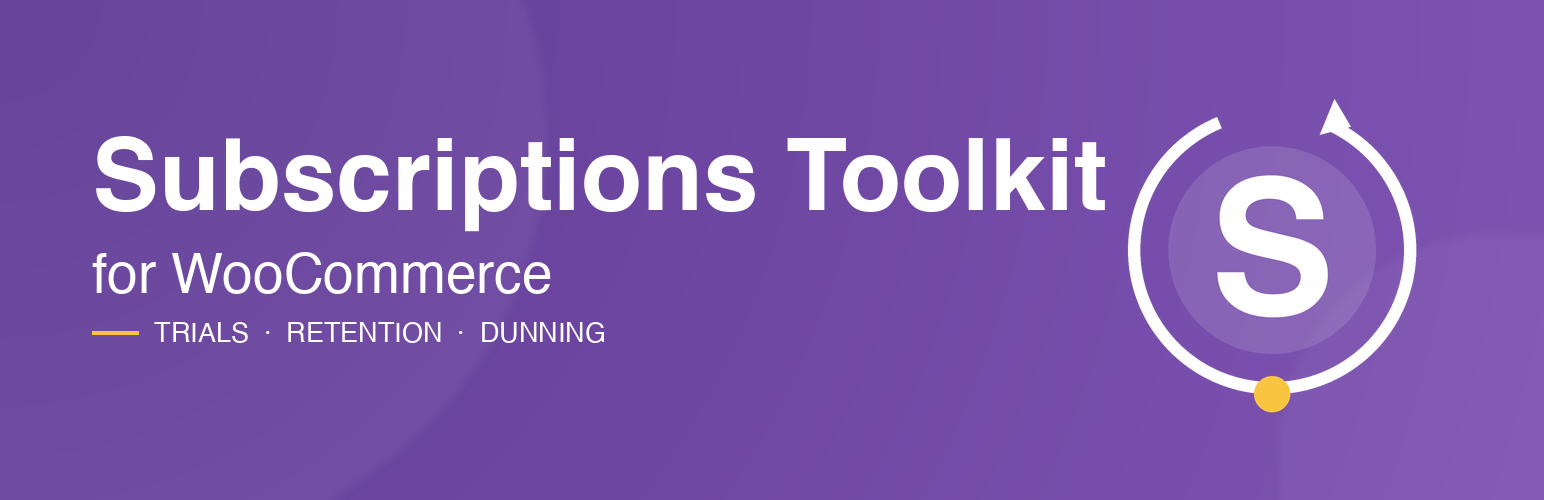
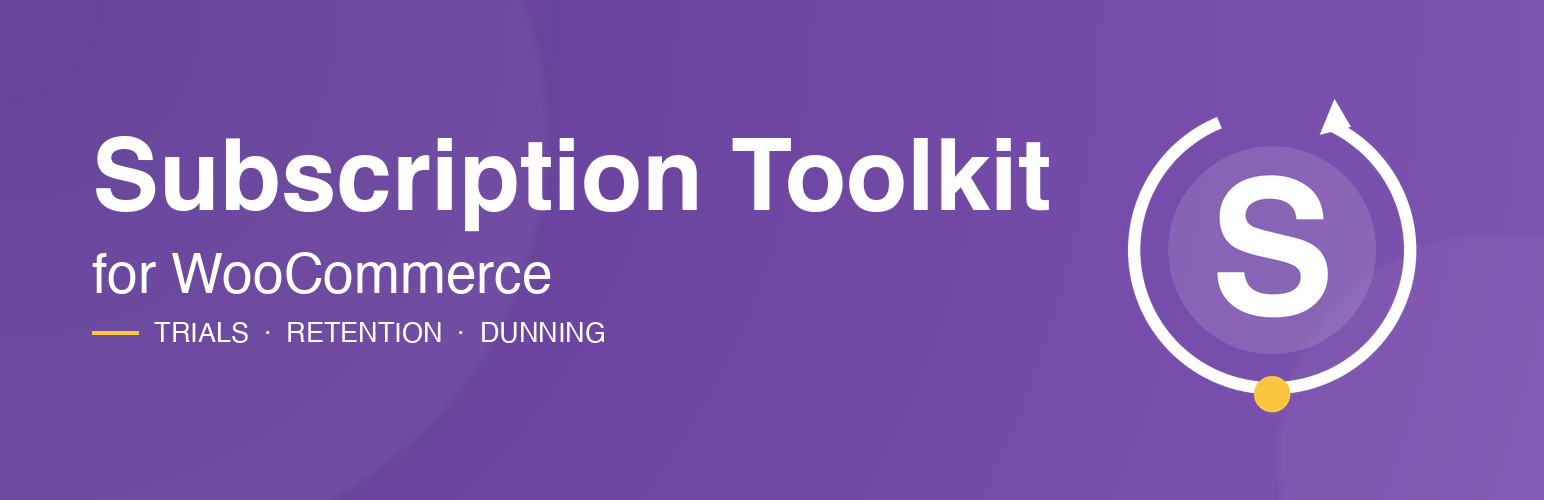
v1.2.0: rename to NAVEST Toolkit for WooCommerce
The wordpress.org reviewer flagged the previous name "Subscriptions
Toolkit for WooCommerce" as too generic (missing a distinctive
leading term, per the plugin-name guidelines). Rebrand with NAVEST
as the distinguishing prefix, per the pattern the review team's
own examples suggest:  "{distinctive-term} {descriptive} for
WooCommerce".

Changes:

- Plugin Name:  Subscriptions Toolkit for WooCommerce -> NAVEST Toolkit for WooCommerce
- Slug / folder / main PHP file / text domain / .po and .mo filenames:
  subscriptions-toolkit-for-woocommerce -> navest-toolkit-for-woocommerce
- Package docblock: SubscriptionsToolkitForWC -> NavestToolkitForWC
- German translation catalogs updated + recompiled to match.
- GitHub repo renamed to joelambord/navest-toolkit-for-woocommerce
  (GitHub keeps the old URL as a redirect).
- SLUG updated in both GitHub Actions workflows and in bin/build-zip.sh
  so future SVN deploys target the new WordPress.org slug.

Also picked up from the same review email:

- Added `Requires Plugins: woocommerce` plugin header (WP 6.5+
  standard for declaring wordpress.org-hosted plugin dependencies).

- WooCommerce log source renamed `wcst-trial-coupons` ->
  `navest-trial-coupons` so it reads naturally in
  WooCommerce -> Status -> Logs under the new brand.

Banner + icon regenerated: the same visual design (WooCommerce purple
gradient, subscription-cycle emblem with "S" monogram), text updated
to "Subscription Toolkit / for WooCommerce" — brand mark NAVEST is
[…]

Changed region(s): [[0.4352, 0.27, 0.715, 0.42]]

diff --git a/includes/trial-coupons/class-trial-coupons-cart.php b/includes/trial-coupons/class-trial-coupons-cart.php
@@ -7,7 +7,7 @@
  * in the cart totals. Also fixes the ungrammatical German price string
  * generated by the WooCommerce Subscriptions translation catalog.
  *
- * @package SubscriptionsToolkitForWC
+ * @package NavestToolkitForWC
  */
 
 defined( 'ABSPATH' ) || exit;
@@ -100,7 +100,7 @@ class WCST_Trial_Coupons_Cart {
 		if ( ! function_exists( 'wc_get_logger' ) ) {
 			return;
 		}
-		wc_get_logger()->info( (string) $message, [ 'source' => 'wcst-trial-coupons' ] );
+		wc_get_logger()->info( (string) $message, [ 'source' => 'navest-trial-coupons' ] );
 	}
 
 	/**
@@ -341,7 +341,7 @@ class WCST_Trial_Coupons_Cart {
 
 	public function custom_error_message( $err, $err_code, $coupon ) {
 		if ( isset( $coupon->error_code ) && 'wcst_no_subscription_in_cart' === $coupon->error_code ) {
-			return __( 'This coupon can only be applied when the cart contains a subscription product.', 'subscriptions-toolkit-for-woocommerce' );
+			return __( 'This coupon can only be applied when the cart contains a subscription product.', 'navest-toolkit-for-woocommerce' );
 		}
 		return $err;
 	}
@@ -351,7 +351,7 @@ class WCST_Trial_Coupons_Cart {
 	 */
 	public function cart_coupon_label( $label, $coupon ) {
 		if ( $coupon instanceof WC_Coupon && $coupon->is_type( WCST_TRIAL_COUPON_TYPE ) ) {
-			return esc_html__( 'Free trial', 'subscriptions-toolkit-for-woocommerce' ) . ' (' . esc_html( strtoupper( $coupon->get_code() ) ) . ')';
+			return esc_html__( 'Free trial', 'navest-toolkit-for-woocommerce' ) . ' (' . esc_html( strtoupper( $coupon->get_code() ) ) . ')';
 		}
 		return $label;
 	}
@@ -369,7 +369,7 @@ class WCST_Trial_Coupons_Cart {
 		$period = (string) $coupon->get_meta( WCST_TRIAL_META_PERIOD );
 
 		if ( $length <= 0 || '' === $period ) {
-			return esc_html__( 'Free trial period', 'subscriptions-toolkit-for-woocommerce' );
+			return esc_html__( 'Free trial period', 'navest-toolkit-for-woocommerce' );
 		}
 
 		return esc_html( $this->format_trial_period( $length, $period ) );
@@ -401,16 +401,16 @@ class WCST_Trial_Coupons_Cart {
 		switch ( $period ) {
 			case 'day':
 				/* translators: %d: number of days */
-				return sprintf( _n( '%d day', '%d days', $length, 'subscriptions-toolkit-for-woocommerce' ), $length );
+				return sprintf( _n( '%d day', '%d days', $length, 'navest-toolkit-for-woocommerce' ), $length );
 			case 'week':
 				/* translators: %d: number of weeks */
-				return sprintf( _n( '%d week', '%d weeks', $length, 'subscriptions-toolkit-for-woocommerce' ), $length );
+				return sprintf( _n( '%d week', '%d weeks', $length, 'navest-toolkit-for-woocommerce' ), $length );
 			case 'month':
 				/* translators: %d: number of months */
-				return sprintf( _n( '%d month', '%d months', $length, 'subscriptions-toolkit-for-woocommerce' ), $length );
+				return sprintf( _n( '%d month', '%d months', $length, 'navest-toolkit-for-woocommerce' ), $length );
 			case 'year':
 				/* translators: %d: number of years */
-				return sprintf( _n( '%d year', '%d years', $length, 'subscriptions-toolkit-for-woocommerce' ), $length );
+				return sprintf( _n( '%d year', '%d years', $length, 'navest-toolkit-for-woocommerce' ), $length );
 			default:
 				return $length . ' ' . $period;
 		}

diff --git a/includes/trial-coupons/class-trial-coupons-admin.php b/includes/trial-coupons/class-trial-coupons-admin.php
@@ -6,7 +6,7 @@
  * saving, and a validation exception in WooCommerce Subscriptions so
  * WCS accepts the custom type on subscription carts.
  *
- * @package SubscriptionsToolkitForWC
+ * @package NavestToolkitForWC
  */
 
 defined( 'ABSPATH' ) || exit;
@@ -27,7 +27,7 @@ class WCST_Trial_Coupons_Admin {
 	 * automatically.
 	 */
 	public function register_discount_type( $types ) {
-		$types[ WCST_TRIAL_COUPON_TYPE ] = __( 'Subscription Trial', 'subscriptions-toolkit-for-woocommerce' );
+		$types[ WCST_TRIAL_COUPON_TYPE ] = __( 'Subscription Trial', 'navest-toolkit-for-woocommerce' );
 		return $types;
 	}
 
@@ -62,15 +62,15 @@ class WCST_Trial_Coupons_Admin {
 		$periods = function_exists( 'wcs_get_available_time_periods' )
 			? wcs_get_available_time_periods()
 			: [
-				'day'   => __( 'day', 'subscriptions-toolkit-for-woocommerce' ),
-				'week'  => __( 'week', 'subscriptions-toolkit-for-woocommerce' ),
-				'month' => __( 'month', 'subscriptions-toolkit-for-woocommerce' ),
-				'year'  => __( 'year', 'subscriptions-toolkit-for-woocommerce' ),
+				'day'   => __( 'day', 'navest-toolkit-for-woocommerce' ),
+				'week'  => __( 'week', 'navest-toolkit-for-woocommerce' ),
+				'month' => __( 'month', 'navest-toolkit-for-woocommerce' ),
+				'year'  => __( 'year', 'navest-toolkit-for-woocommerce' ),
 			];
 		?>
 		<p class="form-field subscription_coupon_trial_length_field">
 			<label for="<?php echo esc_attr( WCST_TRIAL_META_LENGTH ); ?>">
-				<?php esc_html_e( 'Free trial', 'subscriptions-toolkit-for-woocommerce' ); ?>
+				<?php esc_html_e( 'Free trial', 'navest-toolkit-for-woocommerce' ); ?>
 			</label>
 			<span class="wrap">
 				<input type="number"
@@ -83,7 +83,7 @@ class WCST_Trial_Coupons_Admin {
 				       value="<?php echo esc_attr( $length ); ?>" />
 
 				<label for="<?php echo esc_attr( WCST_TRIAL_META_PERIOD ); ?>" style="display:none" class="wcs_hidden_label">
-					<?php esc_html_e( 'Subscription trial period', 'subscriptions-toolkit-for-woocommerce' ); ?>
+					<?php esc_html_e( 'Subscription trial period', 'navest-toolkit-for-woocommerce' ); ?>
 				</label>
 
 				<select id="<?php echo esc_attr( WCST_TRIAL_META_PERIOD ); ?>"
@@ -101,7 +101,7 @@ class WCST_Trial_Coupons_Admin {
 				// wcs_help_tip() (via wc_help_tip()) returns markup that is
 				// already escaped for the tooltip attribute + label output.
 				// phpcs:ignore WordPress.Security.EscapeOutput.OutputNotEscaped
-				echo wcs_help_tip( __( 'Length of the free trial granted when this coupon is applied. The customer pays 0.00 at checkout and the first recurring payment is delayed by this period.', 'subscriptions-toolkit-for-woocommerce' ) );
+				echo wcs_help_tip( __( 'Length of the free trial granted when this coupon is applied. The customer pays 0.00 at checkout and the first recurring payment is delayed by this period.', 'navest-toolkit-for-woocommerce' ) );
 			}
 			?>
 		</p>

diff --git a/navest-toolkit-for-woocommerce.php b/navest-toolkit-for-woocommerce.php
@@ -1,25 +1,26 @@
 <?php
 /**
- * Plugin Name: Subscriptions Toolkit for WooCommerce
+ * Plugin Name: NAVEST Toolkit for WooCommerce
  * Description: A toolkit of enhancements for WooCommerce Subscriptions. First module: a "Subscription Trial" coupon type that grants a configurable free trial (days / weeks / months / years) on subscription products. Compatible with Smart Coupons for WooCommerce Pro (WebToffee). Further modules (retention, dunning, ...) will be added over time.
- * Version:     1.1.4
+ * Version:     1.2.0
  * Author:      Joël Ambord
  * Author URI:  https://profiles.wordpress.org/joelambord/
- * Text Domain: subscriptions-toolkit-for-woocommerce
+ * Text Domain: navest-toolkit-for-woocommerce
  * Domain Path: /languages
  * Requires at least: 6.2
  * Requires PHP: 7.4
+ * Requires Plugins: woocommerce
  * WC requires at least: 8.0
  * WC tested up to: 10.2
  * License: GPLv2 or later
  * License URI: https://www.gnu.org/licenses/gpl-2.0.html
  *
- * @package SubscriptionsToolkitForWC
+ * @package NavestToolkitForWC
  */
 
 defined( 'ABSPATH' ) || exit;
 
-define( 'WCST_VERSION', '1.1.4' );
+define( 'WCST_VERSION', '1.2.0' );
 define( 'WCST_FILE', __FILE__ );
 define( 'WCST_PATH', plugin_dir_path( __FILE__ ) );
 define( 'WCST_URL',  plugin_dir_url( __FILE__ ) );
@@ -64,7 +65,7 @@ function wcst_missing_dependency_notice() {
 		return;
 	}
 	echo '<div class="notice notice-error"><p>';
-	echo esc_html__( 'Subscriptions Toolkit for WooCommerce requires WooCommerce and WooCommerce Subscriptions to be active.', 'subscriptions-toolkit-for-woocommerce' );
+	echo esc_html__( 'NAVEST Toolkit for WooCommerce requires WooCommerce and WooCommerce Subscriptions to be active.', 'navest-toolkit-for-woocommerce' );
 	echo '</p></div>';
 }
 
